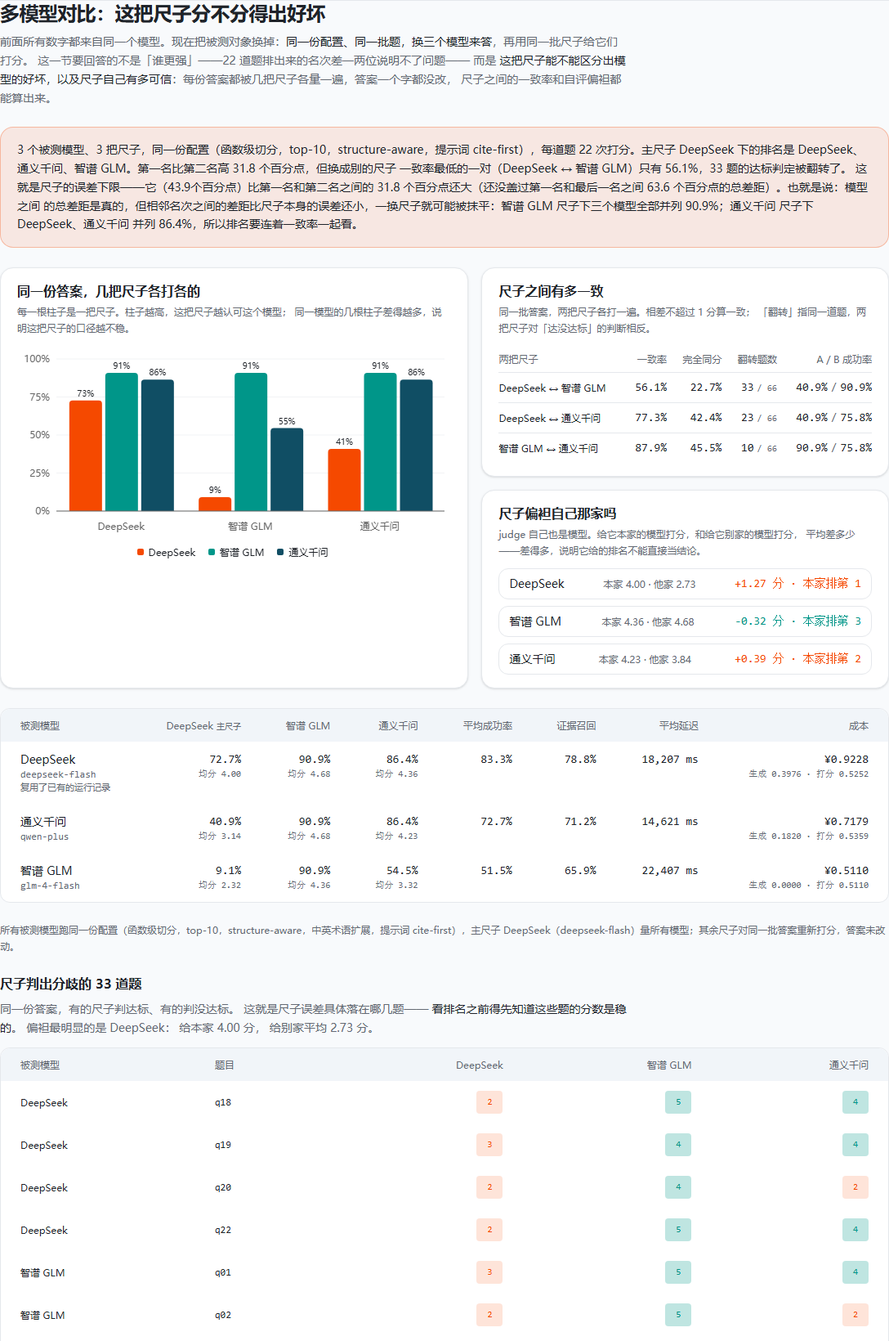
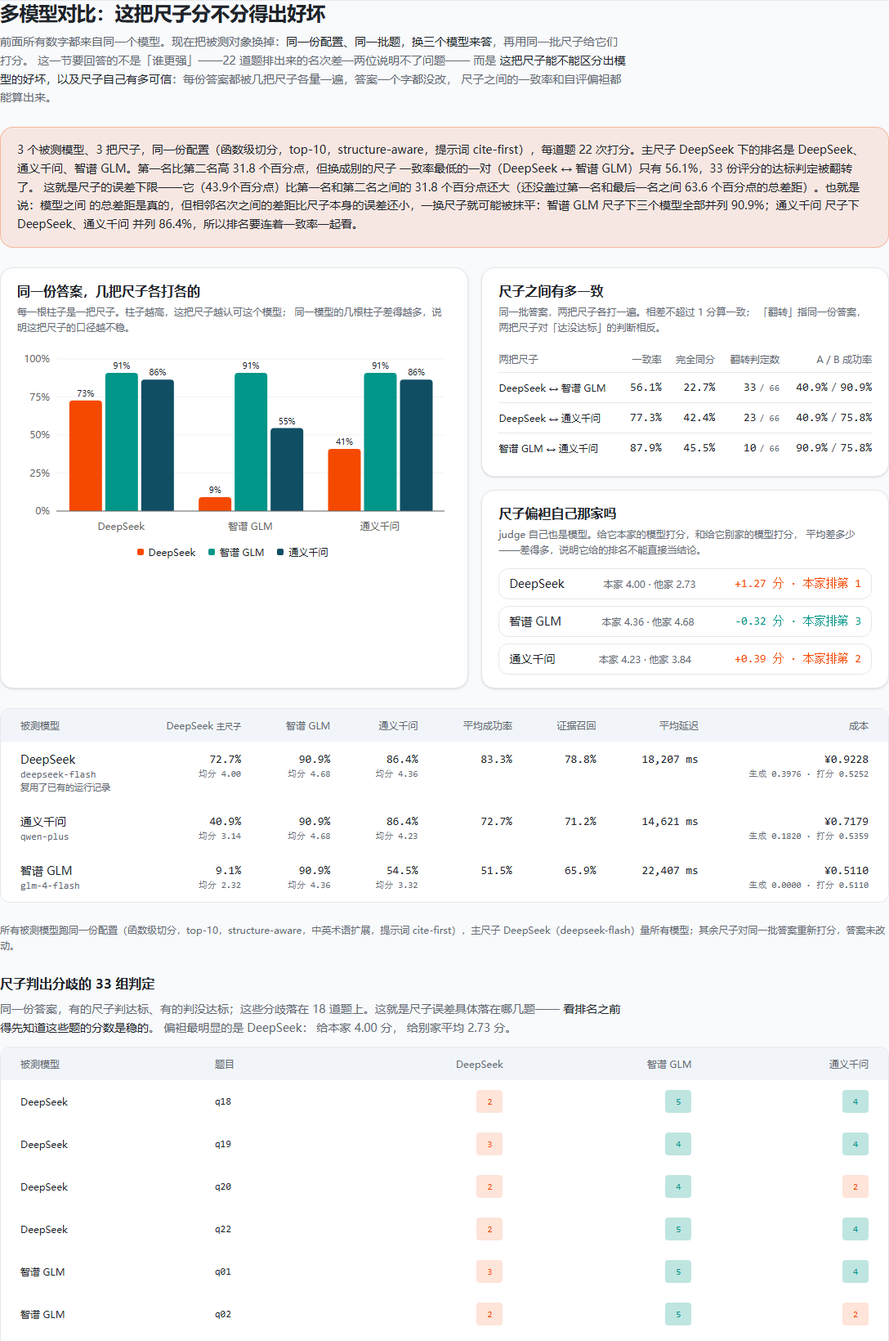
docs: 帖子独立成节讲透「尺子自己也会犯错」
尺子误差比名次差距还大，是这个项目最硬的一张牌，之前埋在多模型对比里。
这次把它提成独立的第 7 小节，并把站点上「33 道题」的表述改准——33 是判定
份数，实际落在 18 道题上，帖子与站点口径保持一致。

diff --git a/site/components/eval/model-comparison-section.tsx b/site/components/eval/model-comparison-section.tsx
@@ -109,7 +109,7 @@ export function ModelComparisonSection() {
     (a, b) => Math.abs(b.gap) - Math.abs(a.gap),
   )[0];
 
-  // 尺子之间判出不同结论的题：同一份答案，有人说达标有人说没达标
+  // 尺子之间判出不同结论的答案：同一份答案，有人说达标有人说没达标
   const disputes = rows.flatMap((row) =>
     row.caseScores
       .filter((item) => {
@@ -121,6 +121,11 @@ export function ModelComparisonSection() {
       })
       .map((item) => ({ row, item })),
   );
+
+  // 分歧落在多少道题上：同一道题可能被多个模型各自判出分歧
+  const disputeQuestions = new Set(
+    disputes.map((entry) => entry.item.questionId),
+  ).size;
 
   const chartData = rows.map((row) => {
     const entry: Record<string, string | number> = {
@@ -174,7 +179,7 @@ export function ModelComparisonSection() {
                   {judgeLabel(worstPair.judgeA)} ↔ {judgeLabel(worstPair.judgeB)}
                   ）只有{" "}
                   {formatPercent(worstPair.agreement)}
-                  ，{worstPair.flips} 题的达标判定被翻转了
+                  ，{worstPair.flips} 份评分的达标判定被翻转了
                 </>
               ) : null}
               。{" "}
@@ -273,7 +278,7 @@ export function ModelComparisonSection() {
             <div className="text-base font-semibold">尺子之间有多一致</div>
             <div className="mt-1 text-xs leading-relaxed text-muted-foreground">
               同一批答案，两把尺子各打一遍。相差不超过 1 分算一致；
-              「翻转」指同一道题，两把尺子对「达没达标」的判断相反。
+              「翻转」指同一份答案，两把尺子对「达没达标」的判断相反。
             </div>
             <div className="mt-3 overflow-x-auto">
               <table className="w-full min-w-[380px] text-sm">
@@ -282,7 +287,9 @@ export function ModelComparisonSection() {
                     <th className="py-2 pr-3 font-medium">两把尺子</th>
                     <th className="py-2 pr-3 text-right font-medium">一致率</th>
                     <th className="py-2 pr-3 text-right font-medium">完全同分</th>
-                    <th className="py-2 pr-3 text-right font-medium">翻转题数</th>
+                    <th className="py-2 pr-3 text-right font-medium">
+                      翻转判定数
+                    </th>
                     <th className="py-2 text-right font-medium">
                       A / B 成功率
                     </th>
@@ -433,11 +440,11 @@ export function ModelComparisonSection() {
         <div className="flex flex-col gap-3">
           <div className="flex flex-col gap-2">
             <h3 className="text-base font-semibold">
-              尺子判出分歧的 {disputes.length} 道题
+              尺子判出分歧的 {disputes.length} 组判定
             </h3>
             <p className="max-w-3xl text-sm leading-relaxed text-muted-foreground">
-              同一份答案，有的尺子判达标、有的判没达标。
-              这就是尺子误差具体落在哪几题——{" "}
+              同一份答案，有的尺子判达标、有的判没达标；这些分歧落在{" "}
+              {disputeQuestions} 道题上。这就是尺子误差具体落在哪几题——{" "}
               <span className="font-medium text-foreground">
                 看排名之前得先知道这些题的分数是稳的
               </span>

diff --git a/docs/tianchi-post.md b/docs/tianchi-post.md
@@ -25,7 +25,7 @@
 
 ## 二、你的作品是什么
 
-**一句话**：一个面向课程项目的代码问答 Agent，加上一套能量化它"在哪错、错多少"的评测台——而且这套评测台自己也按同样的规矩被迭代了七轮。
+**一句话**：一个面向课程项目的代码问答 Agent，加上一套能量化它"在哪错、错多少"的评测台——而且这套评测台自己也按同样的规矩被迭代了七轮，**连它打分用的那把尺子，也被拿来当被测对象量了一遍**。
 
 在线体验：https://copilot-eval-bench-fzlro45ljfz.qoder.zone
 
@@ -141,7 +141,17 @@
 
 主尺子把三者拉开了（72.7% / 40.9% / 9.1%），所以**这套评测台确实有区分度**——它不是给所有模型都打一样的分。DeepSeek 这一行还复用了阶梯 v7 的运行记录，所以它和前面那张七轮阶梯表里的 72.7% 是同一个数，不是另跑一遍。
 
-但更要紧的是下面这张表——两把尺子对同一批答案的一致程度：
+但上面这张表只证明了一件事：**尺子分得出好坏**。它没有证明尺子本身是准的——尺子的误差有多大？偏不偏袒自己家？这些我在下一节单独量了一遍。
+
+### 7. 尺子自己会犯错：评测台给自己做的体检
+
+这是整个项目里我最想讲的一节。
+
+前面第 2 节做 judge 自检时，我让尺子给**人工写的参考答案**打分，一致率 100.0%，当场觉得"尺子这关过了"。后来做多模型对比时才反应过来：**这个自检只回答了「尺子对人工答案准不准」，而人工答案有标准答案可对照，Agent 的答案没有**。给 Agent 打分时，尺子准不准完全是另一回事——它没有标准答案可以对，只能靠自己判断。
+
+所以我把尺子本身也当成被测对象量了一遍：**三个被测模型 × 三把尺子 = 9 组，答案一个字都没改，只有打分的人换人**（3 个模型 × 22 道题 = 66 份答案，每份答案被三把尺子各打一次分）。
+
+#### （1）尺子之间分歧有多大
 
 | 两把尺子 | 一致率（相差 ≤1 分） | 完全同分 | 达标判定被翻转 | A / B 各自判出的成功率 |
 |---|---|---|---|---|
@@ -149,14 +159,52 @@
 | DeepSeek ↔ 通义千问 | 77.3% | 42.4% | 23 / 66 | 40.9% / 75.8% |
 | 智谱 GLM ↔ 通义千问 | 87.9% | 45.5% | 10 / 66 | 90.9% / 75.8% |
 
-**这把尺子的误差，比第一名和第二名之间的差距还大。** 最不一致的一对（DeepSeek ↔ 智谱 GLM）只有 56.1% 一致，66 道评分里有 33 道「达没达标」的判断被翻转——分歧幅度 43.9 个百分点，而主尺子下第一名和第二名只差 31.8 个百分点（第一名和最后一名之间的总差距是 63.6 个百分点，这个才是真的）。换句话说：**模型之间的总差距站得住，但相邻名次之间的差距比尺子本身的误差还小，一换尺子就可能被抹平**——通义千问尺子下 DeepSeek 和通义千问并列 86.4%，智谱 GLM 尺子下三个模型全部并列 90.9%。这就是前面说「生成层分数只能横向比较、不能当绝对质量分」的量化证据，不是免责声明。
+> 截图：`site/shots/16-judge-agreement.png`（这两张表在站点上原样可见：尺子一致率、尺子偏袒自己家）
 
-另外两条更具体的发现：
+**这把尺子的误差，比第一名和第二名之间的差距还大。** 逐条拆开看：
 
-1. **尺子也会偏袒自己家。** 我给每把尺子算了一个「自评偏袒」：它给本家模型的平均分，比给别家的平均分高多少。DeepSeek 尺子给本家 **4.00** 分、给他家平均只有 **2.73** 分，**高 1.27 分**，本家排第 1；通义千问 +0.39 分；智谱 GLM −0.32 分（它反而给他家打更高）。**作为主尺子的 DeepSeek，恰好是三把里最偏袒自己那把**——这件事我没打算藏，站点上原样列着。这和它的行为是自洽的：真人写答案时它偏松（judge 自检里均分 5.00 高于人工的 4.40），但给 Agent 答案打分时它最严（智谱 GLM 的答案它只给 2.32 分）。
-2. **太宽松的尺子等于没有尺子。** 智谱 GLM 尺子给三个模型打出的成功率**全都是 90.9%**——它给 22 道题里的 20 道都打了 ≥4 分，平均分 4.68 / 4.36 / 4.68，几乎不区分模型。所以「多一把尺子交叉验证」不是把分数平均一下就完事，而是**先得看这把尺子本身有没有区分度**。
+- 最不一致的一对（DeepSeek ↔ 智谱 GLM）一致率只有 **56.1%**，完全同分只有 22.7%。
+- 66 份评分里，有 **33 份的「达没达标」判定被翻转**——**一半的判定，尺子之间给出的结论是相反的**。
+- 更值得警惕的是：分数相差 2 分以上的只有 29 份（43.9%），**比判定翻转的 33 份还少**。也就是说，很多题两把尺子只差 1 分，却恰好卡在「4 分算成功」这条线两侧，一份判达标、一份判不达标。**成功线越靠近分数密集区，判定就越脆**——这不是某把尺子的 bug，是 LLM-as-judge 这个方法的固有噪声。
+- 放到结论上看：主尺子下第一名（DeepSeek 72.7%）和第二名（通义千问 40.9%）只差 **31.8 个百分点**，**小于最不一致那对尺子 50% 的判定翻转率**。换句话说：**模型之间的总差距站得住（第一名 72.7% vs 最后一名 9.1%，差 63.6 个百分点），但相邻名次之间的差距比尺子本身的误差还小，一换尺子就可能被抹平**——通义千问尺子下 DeepSeek 和通义千问并列 86.4%，智谱 GLM 尺子下三个模型全部并列 90.9%。
 
-最有意思的副产品：站点上列出了 **33 道尺子判出分歧的题**（同一份答案，有的尺子判达标、有的判没达标），逐题能看到三把尺子各自的分数。而在全部 9 个「模型 × 尺子」组合里，**只有 q08 和 q21 两道题从来没有被任何一把尺子判过达标**——这两道题就是七轮阶梯改到最后也没修好的那种题，跨越三个模型、三把尺子都硬骨头。剩下的 2 道题则是所有组合全部达标。
+这就是前面说「生成层分数只能横向比较、不能当绝对质量分」的**量化证据，不是免责声明**。
+
+#### （2）尺子偏袒自己家
+
+我给每把尺子算了一个「自评偏袒」：它给本家模型的平均分，比给别家的平均分高多少。
+
+| 尺子 | 给本家模型的平均分 | 给他家模型的平均分 | 偏袒幅度 | 本家排第几 |
+|---|---|---|---|---|
+| DeepSeek | 4.00 | 2.73 | **+1.27** | 1 |
+| 通义千问 | 4.23 | 3.84 | +0.39 | 2 |
+| 智谱 GLM | 4.36 | 4.68 | −0.32 | 3 |
+
+**作为主尺子的 DeepSeek，恰好是三把里最偏袒自己那把**——这件事我没打算藏，站点上原样列着。它的行为是自洽的：对人工答案偏松（自检里均分 5.00 高于人工的 4.40），对 Agent 答案反而最严（智谱 GLM 的答案它只给 2.32 分，平均 2.32 vs 智谱尺子给的 4.68）。也就是说，**它给自家的满分，有一部分来自"自己写的东西看着更顺眼"，而不完全是质量差**。
+
+#### （3）太宽松的尺子等于没有尺子
+
+智谱 GLM 尺子给三个模型打出的成功率**全都是 90.9%**——22 道题里给 20 道都打了 ≥4 分，平均分 4.68 / 4.36 / 4.68，几乎不区分模型。
+
+所以「多一把尺子交叉验证」不是把分数平均一下就完事，而是**先得看这把尺子本身有没有区分度**：一把把三个模型都判 90.9% 的尺子，加进平均里只会制造"大家都很好"的假象。
+
+#### （4）哪些题是真难，哪些题只是尺子在吵
+
+- 66 份评分里有 **33 份出现分歧**，落在 **18 道不同的题**上（站点上的「尺子分歧逐题表」可以逐题看到三把尺子各自的分数）。
+- 在全部 9 个「模型 × 尺子」组合里，**只有 q08 和 q21 两道题从来没有被任何一把尺子判过达标**——这两道题正是七轮阶梯改到最后也没修好的那种题，跨三个模型、三把尺子都是硬骨头，说明它们是**真难**，不是尺子吵出来的。
+- 另有 2 道题（q13、q15）在 9 个组合下**全部判达标**，是全题库里最稳的两道。
+
+> 截图：`site/shots/15-judge-disputes.png`（分歧逐题表，每一行是「同一份答案 × 三把尺子」的三种判分）
+
+#### （5）这一节到底改变了什么
+
+评测台自己也得出了一张"体检报告"，而且这张报告**推翻了我一开始的结论**：
+
+1. 我原本认为 judge 自检一致率 100% 就说明尺子可信、可以直接当绝对质量分用——**这个结论是错的**，它只对人工答案成立。
+2. 现在站点上，每个模型在三把尺子下的分数是**并排摆着的**，哪几道题被尺子吵翻了可以逐题看，主尺子的偏袒幅度（+1.27 分）也直接写在页面上——不是藏在附录里。
+3. 结论改成了两句更严格的话：**模型之间的总差距是真的；相邻名次的差距，落在尺子的噪声范围内，不能当结论用。**
+
+这条"我推翻了自己"的过程，也是我敢把这个评测台推荐给别人用的原因——**它连自己的尺子都不放过**。
 
 ### 站点上还提供
 
@@ -164,7 +212,7 @@
 - **多模型对比**：三个被测模型 × 三把尺子的完整矩阵——同一份配置换模型跑，再用每把尺子给同一批答案重新打分，能看到主尺子排出来的名次换一把尺子会不会被抹平
 - **尺子一致率**：两两尺子的一致率、完全同分率、「达没达标」被翻转的题数，以及各自信用的成功率——**尺子的误差下限就摆在这里**
 - **自评偏袒检测**：每把尺子给本家模型打的分比给他家高多少，本家排第几——**这是评测台自己给自己做的体检**
-- **尺子分歧逐题表**：33 道被不同尺子判出不同结论的题，逐题列出三把尺子的分数
+- **尺子分歧逐题表**：66 份评分里 33 份出现「达没达标」判定分歧（落在 18 道题上），逐题列出三把尺子的分数
 - **胜负矩阵**：22 题 × 3 种切分策略的 judge 打分网格，横向看一行就知道这道题在哪种切法下答得好——这是竞品 experiment compare 的核心形态
 - **优化前后**：上面那张 r2 → r3 的对照表，外加 22 题逐题对照（哪几道题被修好了、哪一道反而退步了）
 - **工具迭代史**：上面那张七轮阶梯的完整版——两条曲线（检索召回 / 生成成功率）、每一轮的代价、每一轮改了什么，外加一张 22 题 × 7 轮的翻转矩阵，能看出**哪道题是在第几轮被修好的**，以及哪些题全程没修好
@@ -191,8 +239,9 @@
 
 1. **把主观变客观**。"这个回答看起来挺靠谱"没法写进报告，"在 22 道人工标注题上成功率 X%，P95 延迟 Yms，单题成本 Z 元"可以。
 2. **把失败变成可定位的**。不只是"错了"，而是"因为切分把 `wsgi_app` 截断了所以定位错了"。能定位才能改。
-3. **把 judge 的可信度也纳入验证**。这是最容易被跳过的一步——评测工具自己如果不准，整个体系就是空中楼阁。而且不只验一把尺子：我用三把尺子给同一批答案各打一遍，算出一致率和自评偏袒，**最后发现作为主尺子的 DeepSeek 恰恰是最偏袒自己家那把**——这个结论我原样写在了站点上。
-4. **把评测台自己也当被测对象**。定位到了失败，不等于改完了。我用一套"每轮只改一个变量、其余全部锁死"的阶梯协议重跑了七轮，把每一笔收益都归因到具体改动上——包括**没赚回来的那一轮**。评测台本身也留了一份上一版的运行记录，改完代码重跑一遍就能看出自己到底进步了多少（31.8% → 59.1%）。
+3. **把 judge 的可信度也纳入验证**。这是最容易被跳过的一步——评测工具自己如果不准，整个体系就是空中楼阁。而且不只验一把尺子：我用三把尺子给同一批答案各打一遍，算出一致率和自评偏袒，**最后发现作为主尺子的 DeepSeek 恰恰是最偏袒自己家那把**——这个结论我原样写在了站点上（详见第二节第 7 小节）。
+4. **把尺子的误差和结论的误差放在一起比**。这是我在项目里最重要的一次自我修正：66 份评分里有 **33 份的「达没达标」判定被尺子之间的分歧翻转**，而主尺子下第一名和第二名只差 31.8 个百分点。**当尺子的误差比结论的差距还大时，那个排名就不能当排名用**——所以我最后给出的不是"谁更强"，而是"哪段差距站得住、哪段站不住"。
+5. **把评测台自己也当被测对象**。定位到了失败，不等于改完了。我用一套"每轮只改一个变量、其余全部锁死"的阶梯协议重跑了七轮，把每一笔收益都归因到具体改动上——包括**没赚回来的那一轮**。评测台本身也留了一份上一版的运行记录，改完代码重跑一遍就能看出自己到底进步了多少（31.8% → 59.1%）。
 
 场景选在**课程项目**上，是因为这是我最有真实感的场景：我是这些仓库的第一批用户，我知道自己哪里会问错，也能拿到真实的失败样本，不需要去想象一个虚构用户。
 
@@ -202,7 +251,7 @@
 
 ## 四、怎么用（5 步以内）
 
-在线体验版：打开站点 → 先看第一章「实战问答」，挑一道题看课设 Copilot 当时到底怎么答的（可以切换起步版和最终版）→ 看三种切分策略的检索对比 → 点开任意一道题看逐题检索台（同时能看到三种策略在这道题上的并排对比）→ 看失败归因 → 看 judge 自检结果 → 看「优化前后」这一节的上一版对照 → 看「工具迭代史」这一节的七轮阶梯 → 看「多模型对比」这一节的三模型 × 三尺子矩阵和尺子一致率 →（想自己抠数字的话）切到「数据」视图逐题筛选，或直接把 CSV / JSON 下载走。
+在线体验版：打开站点 → 先看第一章「实战问答」，挑一道题看课设 Copilot 当时到底怎么答的（可以切换起步版和最终版）→ 看三种切分策略的检索对比 → 点开任意一道题看逐题检索台（同时能看到三种策略在这道题上的并排对比）→ 看失败归因 → 看 judge 自检结果 → 看「优化前后」这一节的上一版对照 → 看「工具迭代史」这一节的七轮阶梯 → 看「多模型对比」这一节的三模型 × 三尺子矩阵、尺子一致率和自评偏袒 →（想自己抠数字的话）切到「数据」视图逐题筛选，或直接把 CSV / JSON 下载走。
 
 **想要代码的话：整个项目都开在 GitHub 上** —— https://github.com/BaconChen34569/eval-bench ，MIT 许可。里面是完整的评测流水线、22 题评测集、语料拉取脚本和站点源码。**不需要注册、不需要账号、不需要 API 密钥**，装个 Node.js 22.13 以上就能跑出和站点一模一样的检索层数字（检索层完全离线、不花钱）。
 
@@ -280,9 +329,11 @@ cd ../site && npm run dev
 
 **⑦ 把「尺子准不准」也变成数据**：这一段是这次加得最狠的一块，也是我推翻自己结论的地方——
 > - 之前的自检只回答了「尺子对**人工写的答案**准不准」，答 100% 一致率就算过关。但换成给 Agent 的答案打分，尺子准不准完全是另一回事——**人写的答案有标准答案可对照，Agent 的答案没有**。
-> - 所以我把被测对象换成三个模型（DeepSeek / 通义千问 / 智谱 GLM），配置一个字不改，再拿三把尺子给**同一批答案**各打一遍（答案不动，只有打分的人换人）。结论很硬：**最不一致的一对尺子只有 56.1% 一致，66 道评分里 33 道「达没达标」的判断被翻转**——尺子之间的分歧（43.9 个百分点）比第一名和第二名之间的差距（31.8 个百分点）还大，一换尺子这个差距就可能被抹平（通义千问尺子下前两名并列 86.4%，智谱 GLM 尺子下三个模型全部并列 90.9%）。
+> - 所以我把被测对象换成三个模型（DeepSeek / 通义千问 / 智谱 GLM），配置一个字不改，再拿三把尺子给**同一批答案**各打一遍（答案不动，只有打分的人换人）。结论很硬：**最不一致的一对尺子只有 56.1% 一致，66 份评分里 33 份的「达没达标」判定被翻转（整整一半）**——这个分歧幅度比第一名和第二名之间的差距（31.8 个百分点）还大，一换尺子这个差距就可能被抹平（通义千问尺子下前两名并列 86.4%，智谱 GLM 尺子下三个模型全部并列 90.9%）。
 > - 更扎心的一条：**主尺子 DeepSeek 给本家模型的平均分比他家高 1.27 分**，是三把里最偏袒自己家的。主尺子本身就有偏，这个结论我没法绕过去，只能写出来。附带还发现智谱 GLM 那把尺子给三个模型打出的成功率**全都是 90.9%**——宽松到没有区分度，交叉验证前得先看尺子有没有区分度。
 > - 这一段的数字没有一个是我手打的：harness 里新增了 `compare` 命令和 `rejudge` 模块（对存下来的答案重新打分），一致率、自评偏袒、逐题分歧表全是脚本算出来再渲染的。
+> - 站点上的口径也跟着改了：原来写"33 道题"，其实这 33 份判定落在 **18 道题**上（同一道题可能被多个模型各自判出分歧），改完站点和帖子就完全一致了。
+> 截图：`site/shots/16-judge-agreement.png`（尺子一致率 + 自评偏袒）、`site/shots/15-judge-disputes.png`（尺子分歧逐题表）、`site/shots/12-multi-model.png`（多模型对比全景）
 
 **⑧ 发布上线**：把站点部署成公开可访问的地址
 > 截图：站点地址 + 发布过程（`site/shots/01-hero.png` 是发布后的线上首屏）
@@ -305,16 +356,36 @@ cd ../site && npm run dev
   - `08-repro.png` 复现命令
   - `09-dark-hero.png` / `10-dark-ladder.png` 深色模式
   - `11-mobile.png` / `14-agent-mobile.png` 移动端布局
-  - `12-multi-model.png` **多模型对比（三模型 × 三尺子 + 尺子一致率 + 自评偏袒）**
+  - `12-multi-model.png` **多模型对比全景（三模型 × 三尺子 + 一致率 + 自评偏袒 + 分歧表）**
+  - `16-judge-agreement.png` **尺子一致率 + 自评偏袒（第二节第 7 小节的证据）**
+  - `15-judge-disputes.png` **尺子分歧逐题表（33 份判定分歧，落在 18 道题上）**
+
+### 截图对照表：哪些已经截好，哪些还得你自己截
+
+| 步骤 | 配图 | 状态 |
+|---|---|---|
+| ① 设计工作台 | `site/shots/01-hero.png`、`13-agent-replay.png`、`02-chunking-compare.png` | ✅ 站点截图已就绪 |
+| ② 实现评测流水线 | `harness/src/` 下的实现过程（schema → chunk → retrieval → agent → judge → runner） | ❌ **需要你截 IDE 界面** |
+| ③ 排错（成本口径、失败归因） | IDE 里 `harness/src/llm.ts`（成本折算）和 `harness/src/failure.ts`（失败归因）的代码 + 报错记录 | ❌ **需要你截 IDE 界面** |
+| ④ 瞬时故障重试 | `harness/src/llm.ts` 里的重试逻辑 + 重跑记录 | ❌ **需要你截 IDE 界面** |
+| ⑤ 读失败样本（中文术语桥） | `harness/src/retrieval.ts` 的查询扩展 + `harness/src/bilingual.ts` 术语表 + 逐题失败样本 | ❌ **需要你截 IDE 界面** |
+| ⑥ 优化前后（`--baseline`） | `harness/src/cli.ts` 的 baseline 分支 + 站点 `04-before-after.png` | ❌ **需要你截 IDE 界面** |
+| ⑦ 尺子会犯错 | `site/shots/16-judge-agreement.png`、`15-judge-disputes.png`、`12-multi-model.png` | ✅ 站点截图已就绪 |
+| ⑧ 发布上线 | `site/shots/01-hero.png`（线上首屏）+ 发布过程截图 | ⚠ **站点图已就绪，发布过程需你补一张** |
+
+> 截图安全提醒：`harness/.env` 里存着 API Key，截 IDE 界面时**不要把 `.env` 文件内容截进去**（`.env` 已在 `.gitignore` 里，但截图是另一回事）。
 
 ---
 
 ## 提交前检查清单
 
-- [ ] 补齐 `{{姓名}}`、`{{学校}}`
-- [ ] 插入 6 组 Qoder 过程截图（第 ① ② ⑤ ⑦ 步需要你自己截 IDE 界面，第 ⑧ 步用 `site/shots/` 的实拍图）
+- [ ] 补齐 `{{姓名}}`、`{{学校}}`（第一节自我介绍）
+- [ ] 补齐第一节最后那句 `{{为什么选 StudyHack 方向 / 你平时的课设场景}}`（可选，但建议写）
+- [ ] 插入 Qoder 过程截图：**②③④⑤⑥ 六步需要你自己截 IDE 界面**（对应文件已在上面的对照表里写清楚），①⑦⑧ 用 `site/shots/` 的现成图
+- [ ] 截 IDE 界面时**不要把 `harness/.env` 拍进去**（密钥只存在这一个文件里）
 - [ ] 确认站点是**公开可访问**（已确认：https://copilot-eval-bench-fzlro45ljfz.qoder.zone 无需登录）
 - [ ] 确认 GitHub 仓库是公开的（已确认：https://github.com/BaconChen34569/eval-bench 无需登录可读），且站点「怎么复现」一节的按钮指向它
-- [ ] 检查：有没有把 API Key 写进任何截图或代码里（密钥只存在 `harness/.env`，已被 .gitignore 忽略）
+- [ ] 检查：有没有把 API Key 写进任何截图或代码里
+- [ ] 逐条核对帖子里的数字与 `site/data/report.json` 一致（本次已全部重抽核对过：judge 自检 100.0%、阶梯 22.7%→72.7%、优化前后 31.8%→59.1%、一致率 56.1%/77.3%/87.9%、翻转 33/66、自评偏袒 +1.27）
 - [ ] 完成学生实名认证 + 阿里云大学生认证（关系到能不能拿奖）
 - [ ] 可选：把 corpus 换成你自己的课设仓库，评测流程一行都不用改
